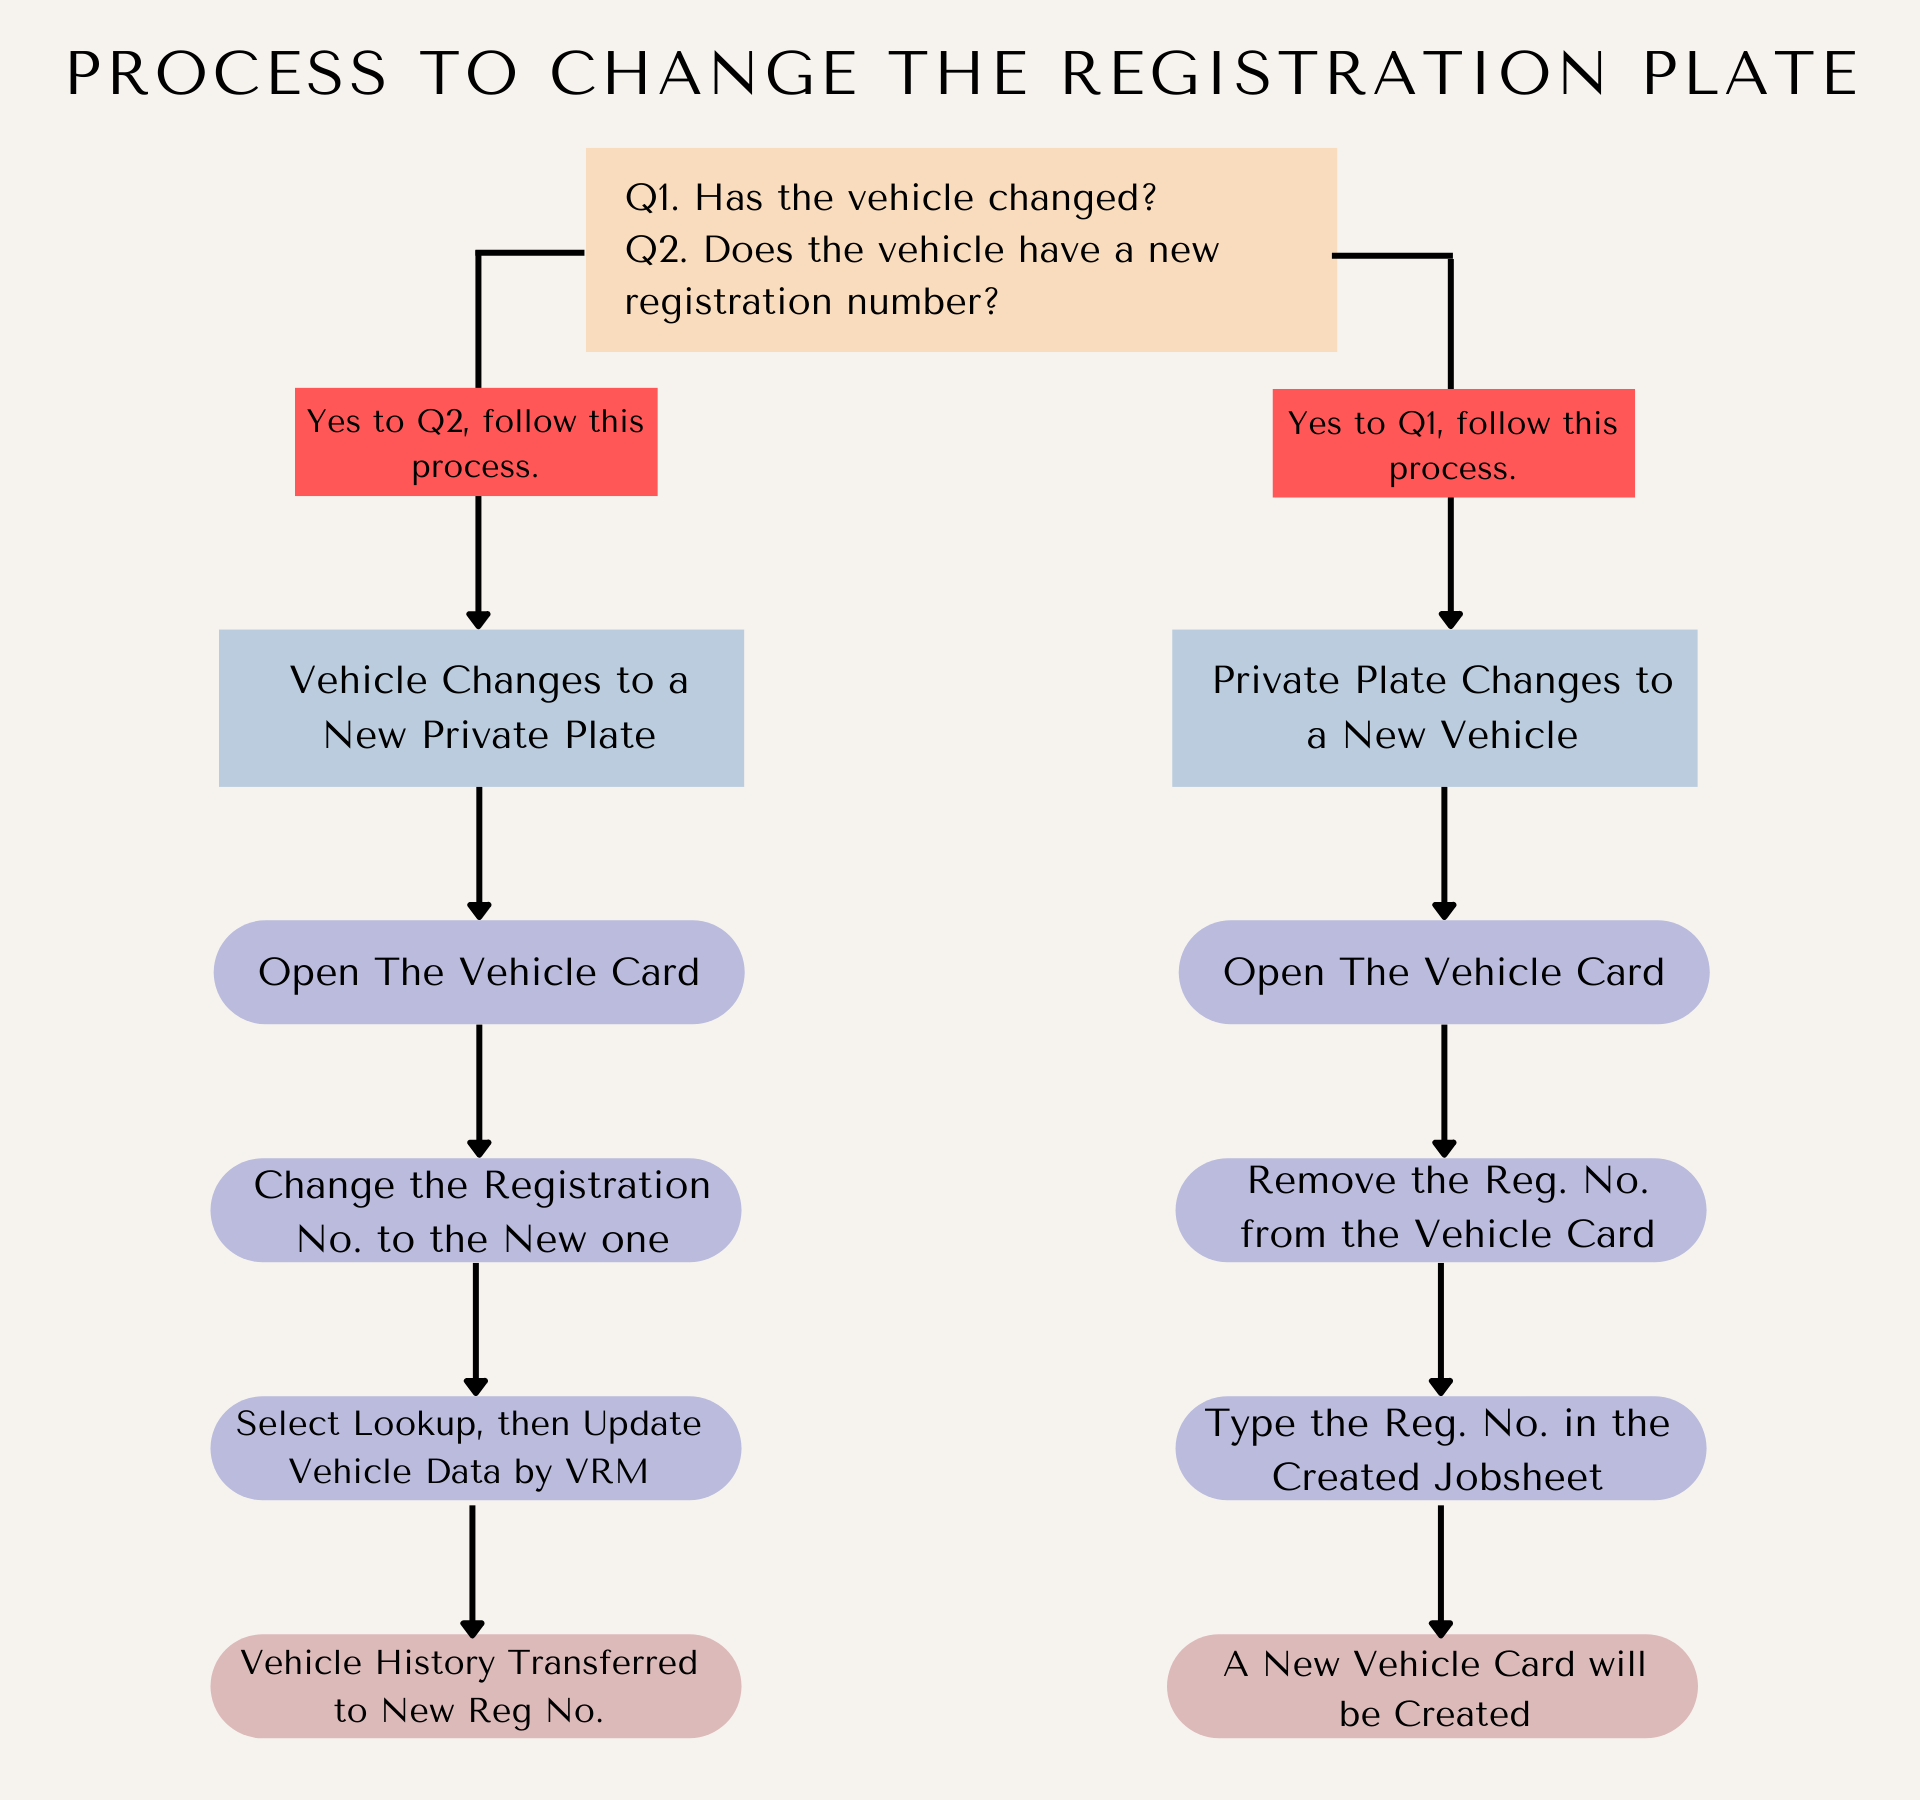
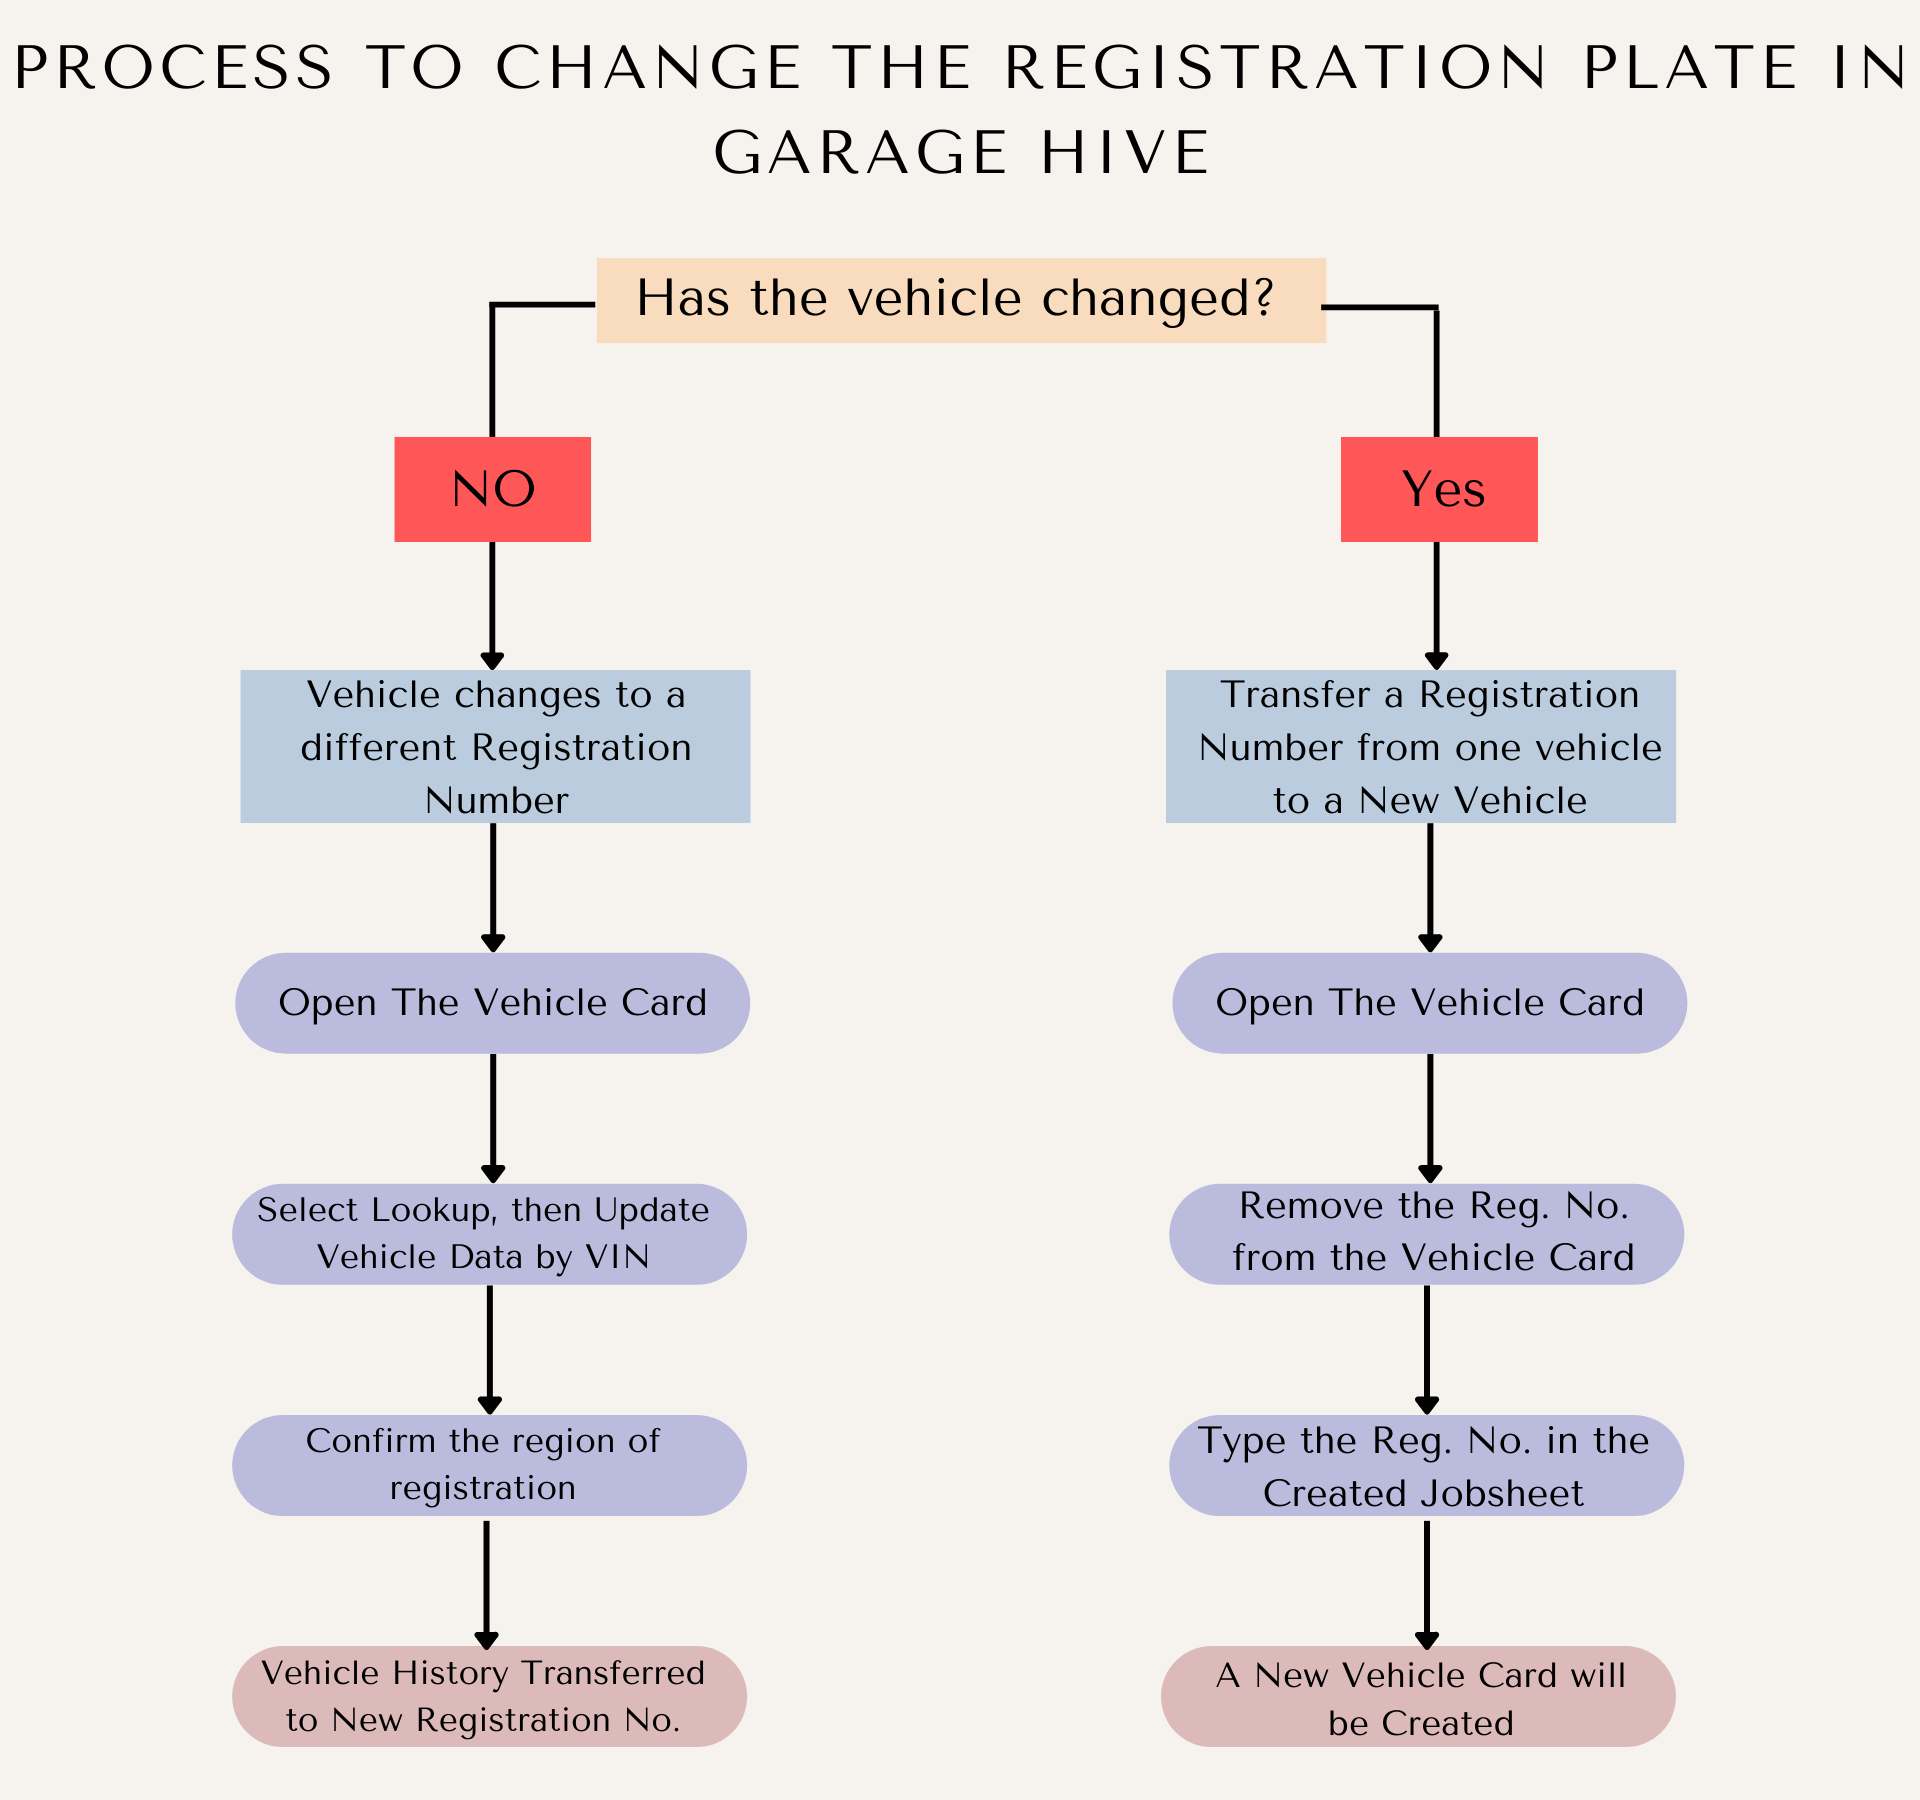
registration plate change

Changed region(s): [[0.0312, 0.0, 1.0, 0.9956], [0.5938, 0.9333, 0.625, 0.9644], [0.375, 0.9333, 0.4062, 0.9644]]

diff --git a/docs/garagehive-change-registration-number.md b/docs/garagehive-change-registration-number.md
@@ -9,13 +9,19 @@ title: Draft - *How to Change a Customer's Vehicle Registration Number in Garage
 We are currently reviewing this article before it is published, check back later.
 
 # How to Change a Customer's Vehicle Registration Number in Garage Hive
-If a customer changes the original plate of the vehicle and there is history attached to it in Garage Hive, you may want to transfer this history to the new registration number plate, and on the other hand, you may have a customer who has a new vehicle with the original plate. In this article, we will look through both scenarios so that you can keep your records accurate.
+There are a couple of scenarios in which you may need to change a vehicle's registration number. Here are a few examples:
 
-In Summary:
+1. When a customer changes the vehicle's original registration number and there is history attached to it in Garage Hive (Adding/Removing a private plate); when the history needs to remain with this vehicle. 
+2. A customer who has a new vehicle but would like to transfer the registration number from another vehicle (Transferring a private plate). 
+
+In this article, we will look through both scenarios so that you can keep your records accurate.
+
+
+Flowchart summary:
 
    ![](media/change-registration-number.png)
 
-## Vehicle Changes to a New Private Plate
+## Vehicle changes to a different Registration Number
 When a vehicle changes to a new registration number:
 1. Open the vehicle card of the original registration plate. Select **Lookup** from the menu bar, and then choose**Update Vehicle Data by VIN**.
 
@@ -27,8 +33,8 @@ When a vehicle changes to a new registration number:
 
 3. The new vehicle registration has been updated, and the vehicle history has been transferred to the new vehicle registration number.
 
-## Private Plate Changes to a New Vehicle
-When the private plate changes to a new vehicle:
+## Transfer a Registration Number from one vehicle to a New Vehicle
+To transfer a registration number from one vehicle to a new vehicle:
 1. Open the vehicle card of the original registration plate. Delete the **Registration No.** and close the vehicle card.
 
    ![](media/change-registration-number3.png)
